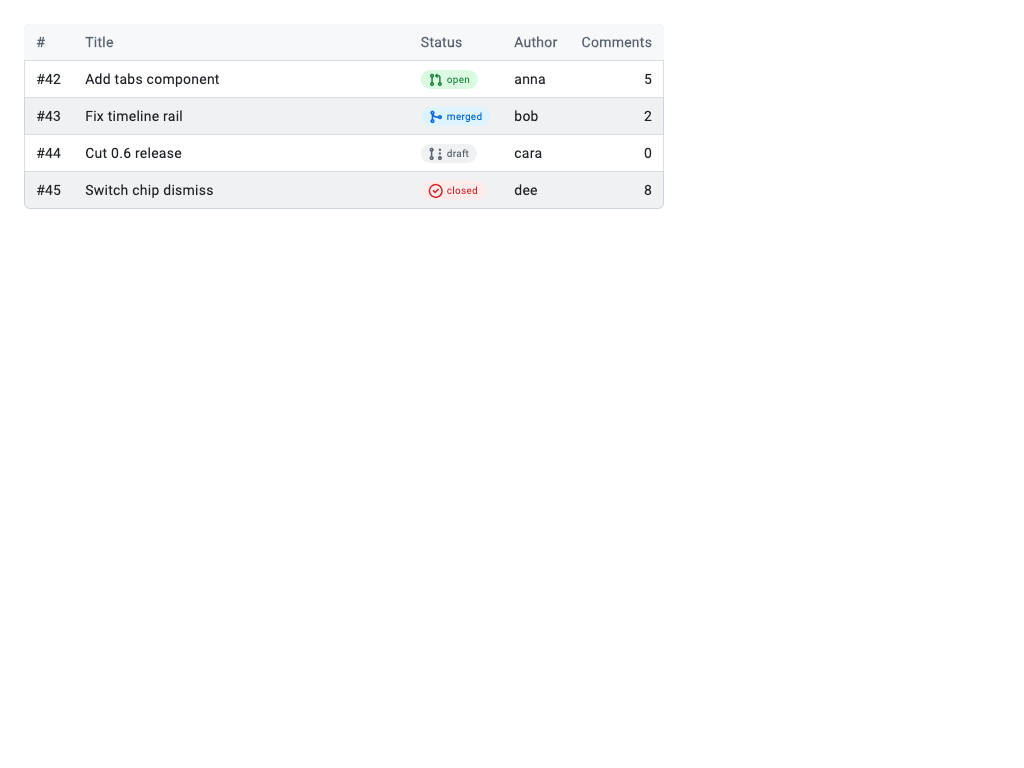
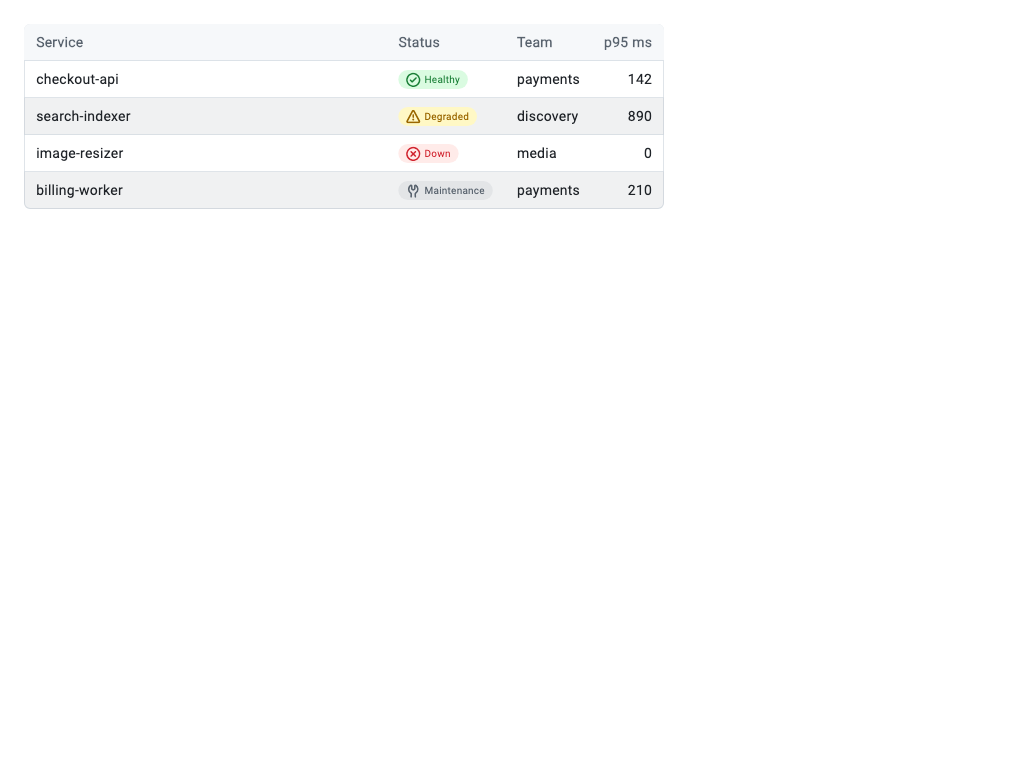
docs(screenshots): refresh pub.dev screenshots, move fixtures off GitHub domains
The four pubspec screenshots were captured on the pre-0.11 palette, so they
no longer matched what the package renders. They are copies of light golden
baselines, and those baselines had drifted twice over: once on the palette,
and once against the project's own rule that demo material avoid
GitHub-flavoured domains — the most visible surface we have was showing an
issue list, a pull-request feed, and "New issue" / "New pull request"
commands.

Three fixtures move to the observability domain the example dashboard already
uses: the data table becomes a service health table (name, status, team,
p95 ms), the timeline becomes an incident feed from latency spike through
rollback to recovery, and the command palette offers operational commands.
The status labels screenshot keeps its lifecycle wording, because open /
closed / merged / draft are the actual names of OctoStateLabelVariant.

Status pills in the table now name their own icon: the variant default is a
lifecycle glyph, and a pull-request icon beside "Healthy" reads as a mistake.

Two pubspec descriptions had also gone stale and claimed things the
screenshots did not show — a danger-variant palette entry that isn't there,
and "fuzzy filtering" for what is substring matching. Fixed, along with the
same overclaim in the OctoCommandPalette doc comment, which additionally
omitted that the query matches descriptions as well as labels.

diff --git a/test/goldens/octo_data_table_golden_test.dart b/test/goldens/octo_data_table_golden_test.dart
@@ -4,44 +4,82 @@ import 'package:octo_ui/octo_ui.dart';
 
 import '_octo_matrix.dart';
 
-class _PR {
-  final int number;
-  final String title;
-  final String author;
-  final int comments;
+class _Service {
+  final String name;
+  final String owner;
+  final int p95;
+  final String health;
   final OctoStateLabelVariant status;
-  const _PR(this.number, this.title, this.author, this.comments, this.status);
+  final IconData icon;
+  const _Service(
+    this.name,
+    this.owner,
+    this.p95,
+    this.health,
+    this.status,
+    this.icon,
+  );
 }
 
+// The variant's default icon is lifecycle-shaped (a pull-request glyph), which
+// reads oddly next to "Healthy" — so each row names its own.
 const _rows = [
-  _PR(42, 'Add tabs component', 'anna', 5, OctoStateLabelVariant.open),
-  _PR(43, 'Fix timeline rail', 'bob', 2, OctoStateLabelVariant.merged),
-  _PR(44, 'Cut 0.6 release', 'cara', 0, OctoStateLabelVariant.draft),
-  _PR(45, 'Switch chip dismiss', 'dee', 8, OctoStateLabelVariant.closed),
+  _Service(
+    'checkout-api',
+    'payments',
+    142,
+    'Healthy',
+    OctoStateLabelVariant.open,
+    OctIcons.check_circle_16,
+  ),
+  _Service(
+    'search-indexer',
+    'discovery',
+    890,
+    'Degraded',
+    OctoStateLabelVariant.attention,
+    OctIcons.alert_16,
+  ),
+  _Service(
+    'image-resizer',
+    'media',
+    0,
+    'Down',
+    OctoStateLabelVariant.closed,
+    OctIcons.x_circle_16,
+  ),
+  _Service(
+    'billing-worker',
+    'payments',
+    210,
+    'Maintenance',
+    OctoStateLabelVariant.draft,
+    OctIcons.tools_16,
+  ),
 ];
 
-List<OctoDataColumn<_PR>> _buildColumns() => [
-      OctoDataColumn<_PR>(label: '#', text: (r) => '#${r.number}'),
-      // Title is the wide flex column — it soaks up the leftover space
+List<OctoDataColumn<_Service>> _buildColumns() => [
+      // Service is the wide flex column — it soaks up the leftover space
       // while every other column hugs its content via IntrinsicColumnWidth.
-      OctoDataColumn<_PR>(
-        label: 'Title',
-        text: (r) => r.title,
+      OctoDataColumn<_Service>(
+        label: 'Service',
+        text: (r) => r.name,
         sortable: true,
         flex: 1,
       ),
-      OctoDataColumn<_PR>(
+      OctoDataColumn<_Service>(
         label: 'Status',
         cell: (_, r) => OctoStateLabel(
-          label: r.status.name,
+          label: r.health,
           variant: r.status,
+          icon: r.icon,
           emphasis: OctoStateLabelEmphasis.low,
         ),
       ),
-      OctoDataColumn<_PR>(label: 'Author', text: (r) => r.author),
-      OctoDataColumn<_PR>(
-        label: 'Comments',
-        text: (r) => '${r.comments}',
+      OctoDataColumn<_Service>(label: 'Team', text: (r) => r.owner),
+      OctoDataColumn<_Service>(
+        label: 'p95 ms',
+        text: (r) => '${r.p95}',
         alignment: OctoDataColumnAlignment.end,
         sortable: true,
       ),
@@ -56,7 +94,7 @@ void main() {
         builder: () => _Sampler(
           child: SizedBox(
             width: 640,
-            child: OctoDataTable<_PR>(columns: _buildColumns(), rows: _rows),
+            child: OctoDataTable<_Service>(columns: _buildColumns(), rows: _rows),
           ),
         ),
       ),
@@ -65,10 +103,10 @@ void main() {
         builder: () => _Sampler(
           child: SizedBox(
             width: 640,
-            child: OctoDataTable<_PR>(
+            child: OctoDataTable<_Service>(
               columns: _buildColumns(),
               rows: _rows,
-              sortColumnIndex: 4,
+              sortColumnIndex: 3,
               sortDirection: OctoSortDirection.desc,
             ),
           ),
@@ -79,7 +117,7 @@ void main() {
         builder: () => _Sampler(
           child: SizedBox(
             width: 640,
-            child: OctoDataTable<_PR>(
+            child: OctoDataTable<_Service>(
               columns: _buildColumns(),
               rows: _rows,
               density: OctoDataTableDensity.compact,
@@ -93,7 +131,7 @@ void main() {
         builder: () => _Sampler(
           child: SizedBox(
             width: 640,
-            child: OctoDataTable<_PR>(
+            child: OctoDataTable<_Service>(
               columns: _buildColumns(),
               rows: const [],
               emptyMessage: 'No PRs match the filter',

diff --git a/test/goldens/octo_timeline_golden_test.dart b/test/goldens/octo_timeline_golden_test.dart
@@ -16,34 +16,34 @@ void main() {
             child: OctoTimeline(
               items: [
                 OctoTimelineItem(
-                  icon: OctIcons.git_commit_16,
-                  title: 'Created branch feature/foo',
+                  icon: OctIcons.graph_16,
+                  title: 'p95 latency crossed 800 ms',
                   subtitle: '2 hours ago',
-                ),
-                OctoTimelineItem(
-                  icon: OctIcons.comment_16,
-                  title: 'Anna commented',
-                  subtitle: '1 hour ago',
-                  variant: OctoTimelineVariant.accent,
-                  body: Text('LGTM — ship it.'),
-                ),
-                OctoTimelineItem(
-                  icon: OctIcons.git_pull_request_16,
-                  title: 'Opened pull request #42',
-                  subtitle: '54 minutes ago',
-                  variant: OctoTimelineVariant.success,
-                ),
-                OctoTimelineItem(
-                  icon: OctIcons.alert_16,
-                  title: 'CI flagged 3 lint warnings',
-                  subtitle: '12 minutes ago',
                   variant: OctoTimelineVariant.attention,
                 ),
                 OctoTimelineItem(
                   icon: OctIcons.x_circle_16,
-                  title: 'Deploy to staging failed',
-                  subtitle: 'just now',
+                  title: 'search-indexer stopped responding',
+                  subtitle: '1 hour ago',
                   variant: OctoTimelineVariant.danger,
+                ),
+                OctoTimelineItem(
+                  icon: OctIcons.comment_16,
+                  title: 'Anna acknowledged the alert',
+                  subtitle: '54 minutes ago',
+                  variant: OctoTimelineVariant.accent,
+                  body: Text('Rolling back to v2.4.1.'),
+                ),
+                OctoTimelineItem(
+                  icon: OctIcons.sync_16,
+                  title: 'Rollback finished',
+                  subtitle: '12 minutes ago',
+                ),
+                OctoTimelineItem(
+                  icon: OctIcons.check_circle_16,
+                  title: 'Error rate back to baseline',
+                  subtitle: 'just now',
+                  variant: OctoTimelineVariant.success,
                 ),
               ],
             ),

diff --git a/test/goldens/octo_command_palette_golden_test.dart b/test/goldens/octo_command_palette_golden_test.dart
@@ -48,19 +48,19 @@ class _PaletteStageState extends State<_PaletteStage> {
         controller: _controller,
         items: const [
           OctoActionListItem(
-            label: 'New issue',
-            leading: Icon(OctIcons.plus_16),
+            label: 'Restart service',
+            leading: Icon(OctIcons.sync_16),
             onPressed: _noop,
           ),
           OctoActionListItem(
-            label: 'New pull request',
-            leading: Icon(OctIcons.git_pull_request_16),
+            label: 'Acknowledge alert',
+            leading: Icon(OctIcons.bell_16),
             onPressed: _noop,
           ),
           OctoActionListItem(
-            label: 'Open settings',
-            leading: Icon(OctIcons.gear_16),
-            description: 'Repository preferences and integrations',
+            label: 'Open runbook',
+            leading: Icon(OctIcons.book_16),
+            description: 'Escalation steps and on-call contacts',
             onPressed: _noop,
           ),
           OctoActionListItem(

diff --git a/lib/src/components/command_palette/octo_command_palette.dart b/lib/src/components/command_palette/octo_command_palette.dart
@@ -42,7 +42,8 @@ import 'package:octo_ui/src/theme/octo_theme.dart';
 ///
 /// **Variants** — [openShortcut] overrides the default ⌘K / Ctrl-K binding;
 /// [maxWidth] and [maxHeight] bound the panel on large screens. Filtering is
-/// built in and matches on the item labels.
+/// built in: the query is matched as a substring of an entry's label or its
+/// description, so a command is findable by what it does as well as by name.
 ///
 /// **States** — the panel opens over [child] with the query field focused, the
 /// first match highlighted, and hover / focus tracked per entry. Entries whose
